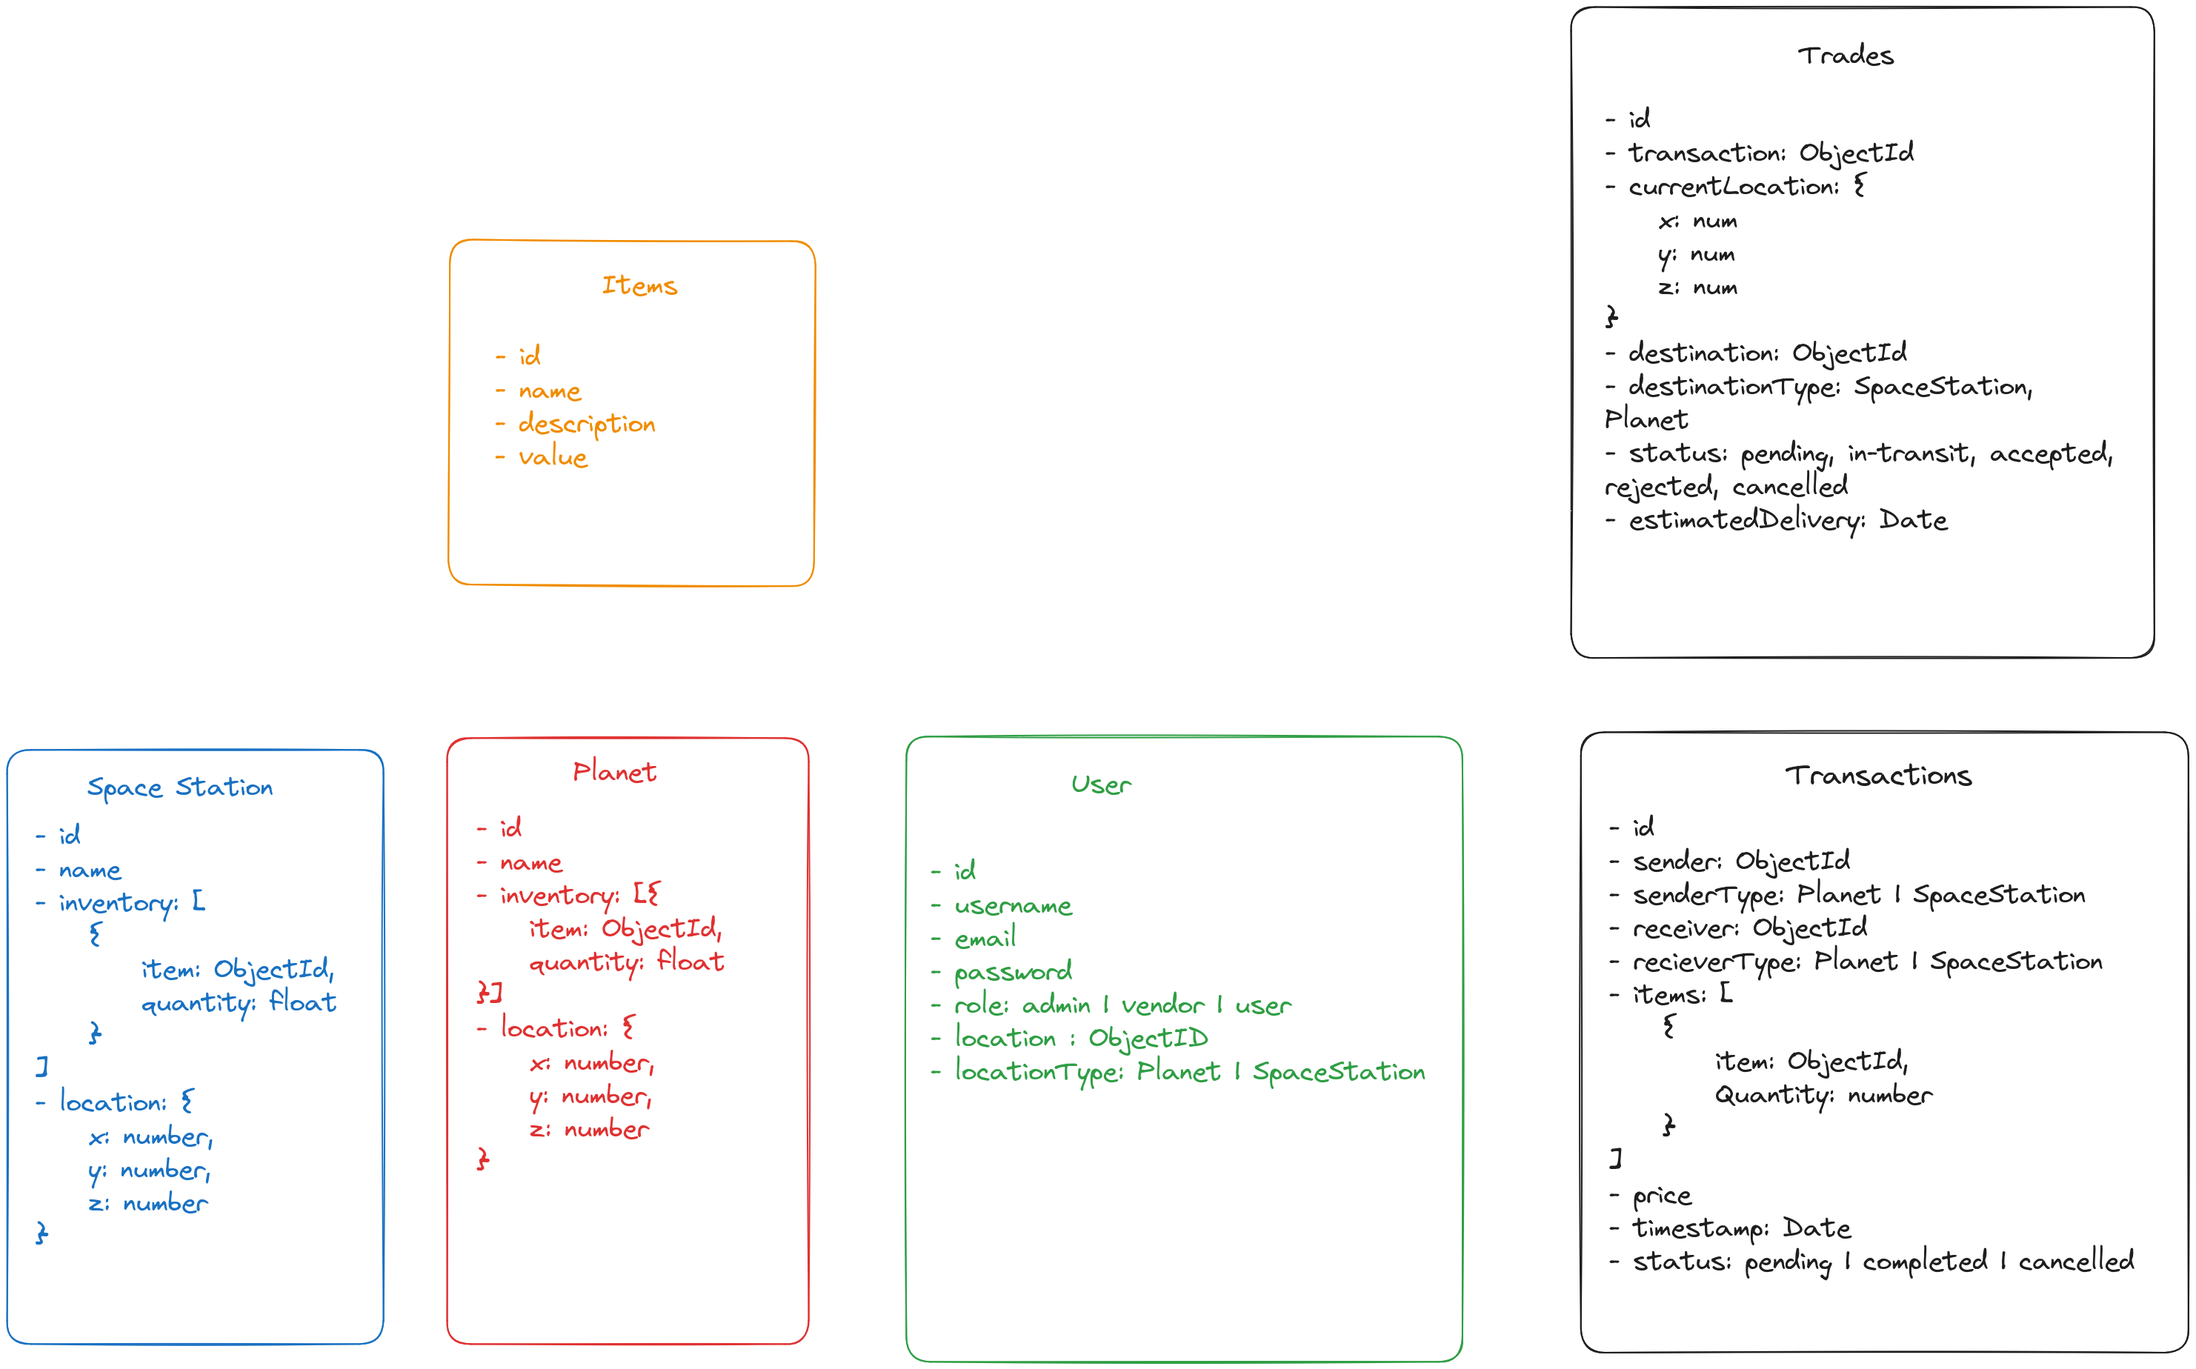
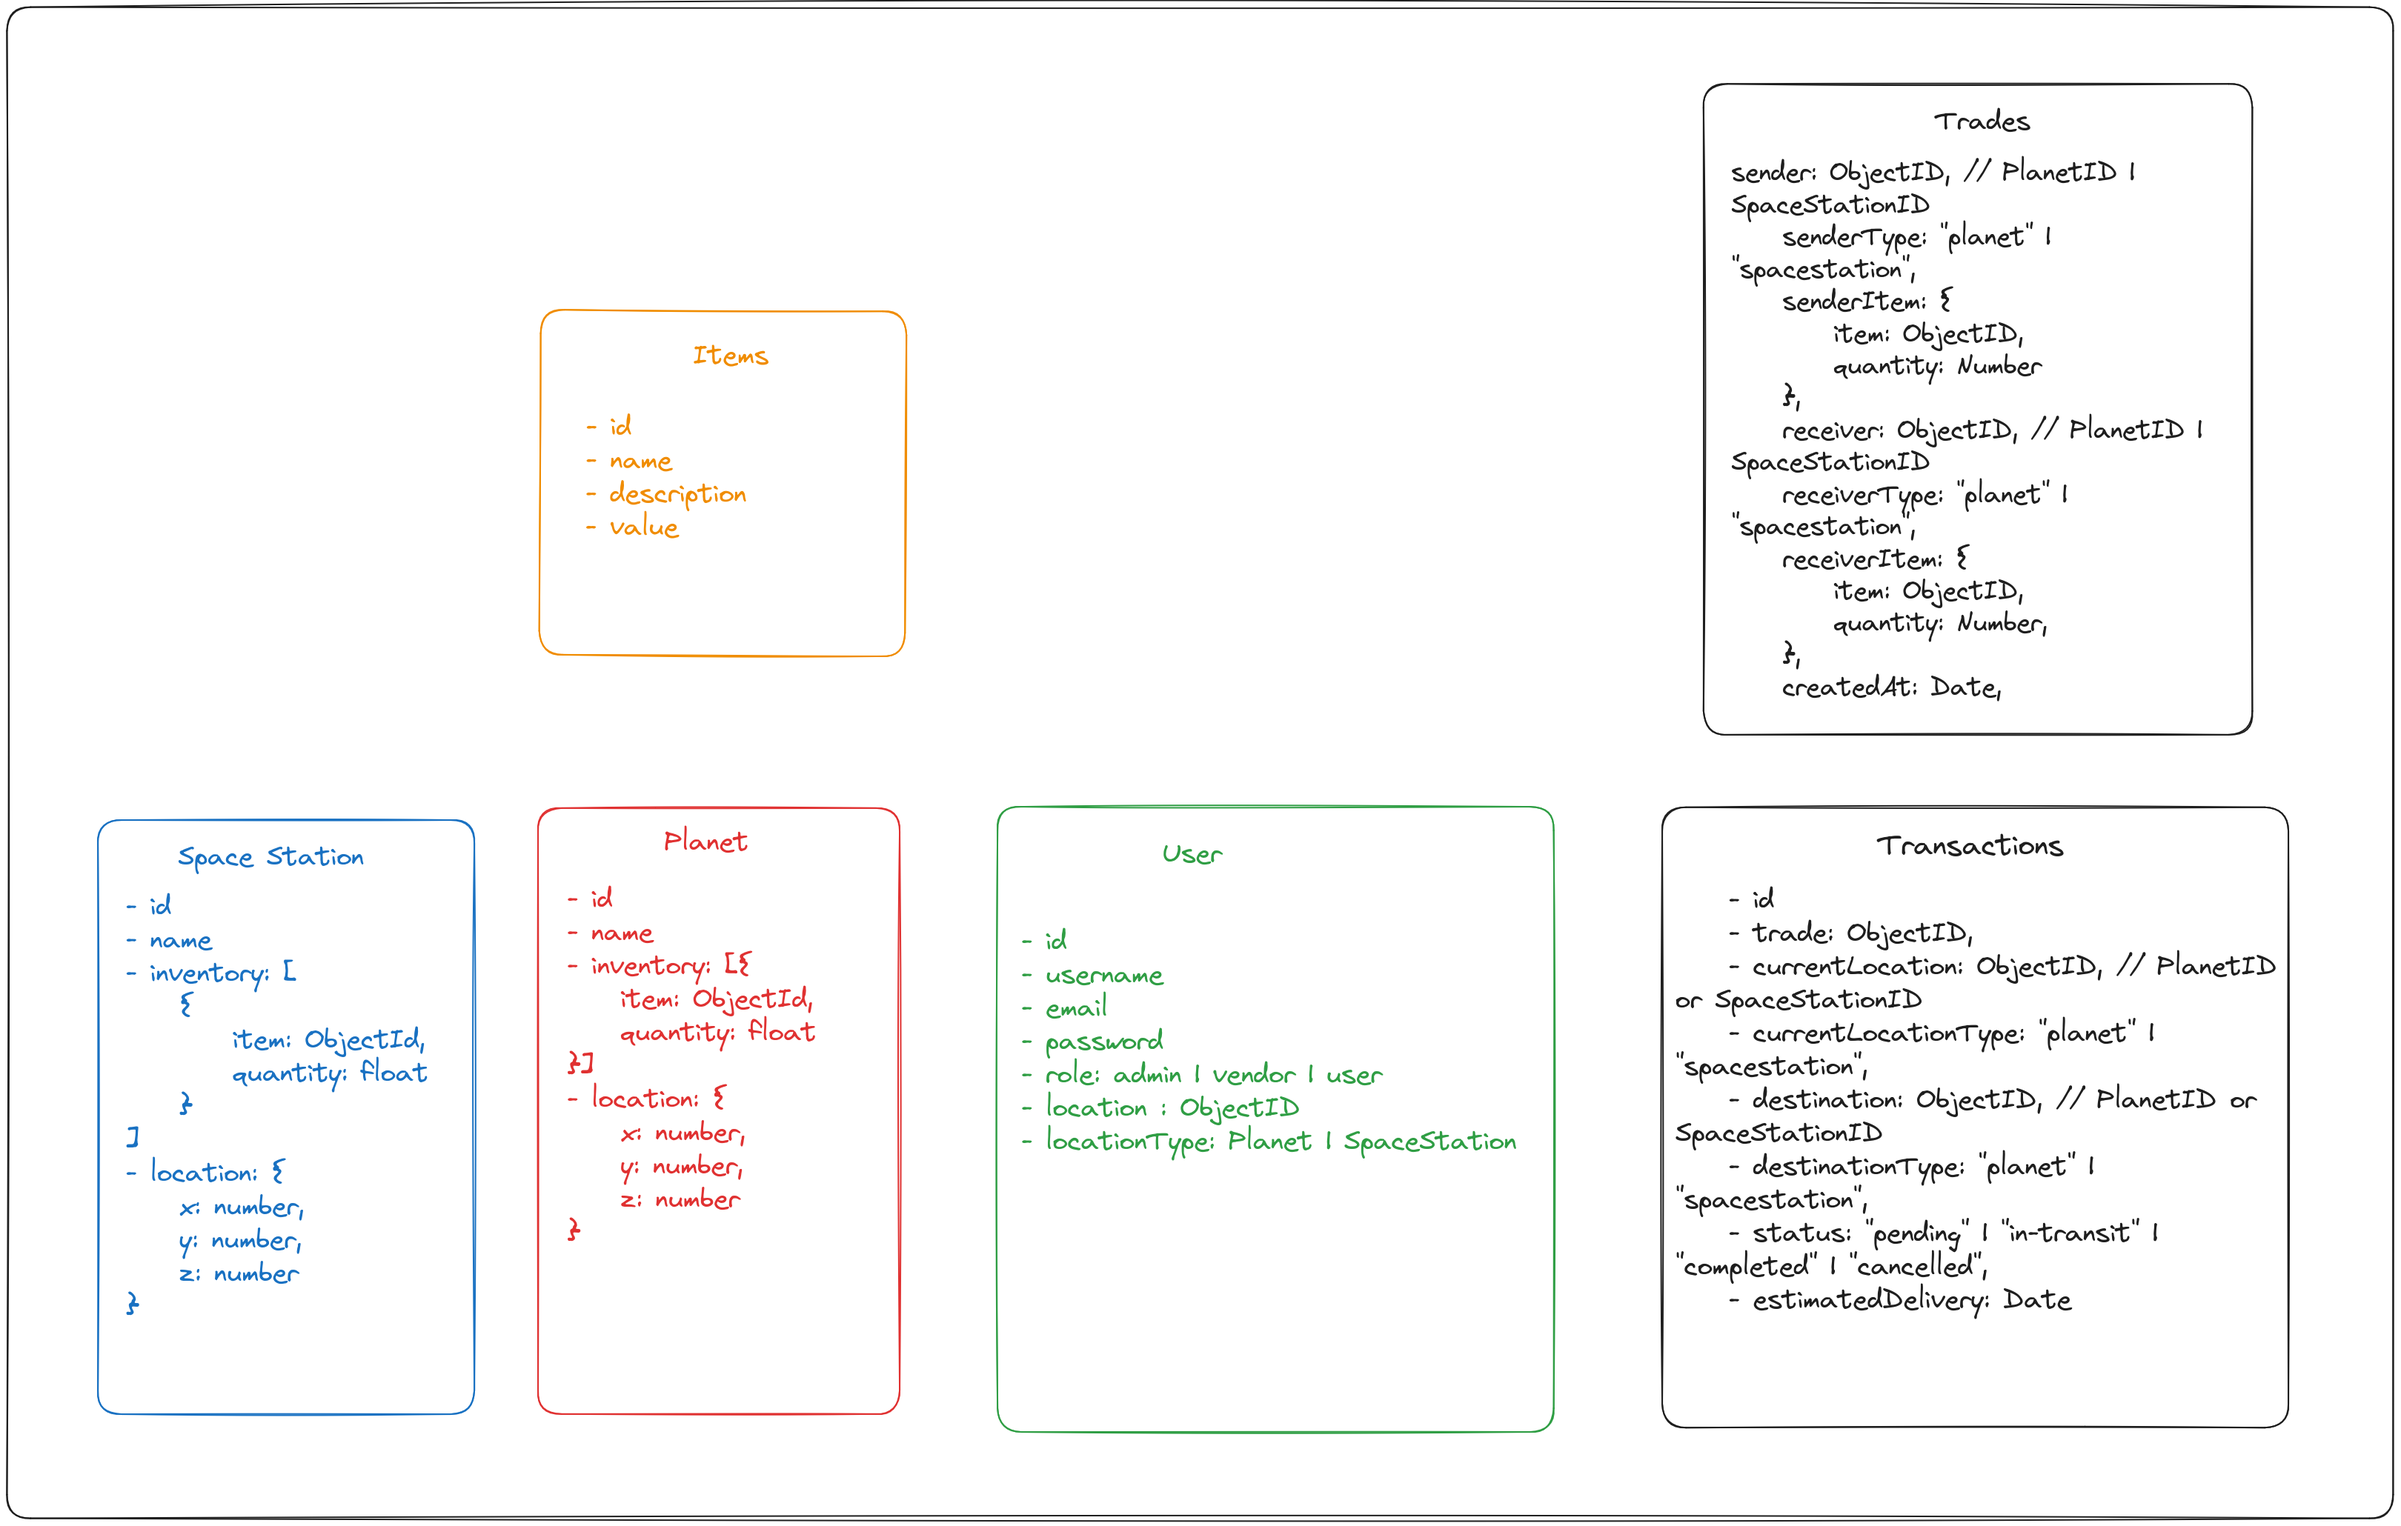
Updated Controllers

diff --git a/src/routes/transactionRoutes.ts b/src/routes/transactionRoutes.ts
@@ -3,6 +3,7 @@ import {
   createTransaction,
   trackTransactionsById,
   getAllTransactions,
+  updateTransaction,
 } from '../controllers/transactionController.js';
 
 import { isUserAuthenticated, authorizeRoles } from "../middleware/auth.js";
@@ -15,5 +16,8 @@ transactionRouter.route('/track/all').get(isUserAuthenticated, getAllTransaction
 
 // General CRUD
 transactionRouter.route('/track/:id').get(trackTransactionsById);
+
+// Vendor CRUD
+transactionRouter.route('/update/:id').put(isUserAuthenticated, authorizeRoles('admin', 'vendor'), updateTransaction);
 
 export default transactionRouter;

diff --git a/README.md b/README.md
@@ -48,6 +48,17 @@ The controller is responsible for handling the request from the user and sending
 
 
 
+### Diagrams
+
+## Schema Diagrams
+![Schema Diagrams](https://github.com/muteenk/intergalactic-trade-network/blob/main/assets/proposed_schema.png)
+
+## User Flow Diagrams
+
+
+
+
+
 ### Database Schema
 
 #### User Schema
@@ -1188,6 +1199,62 @@ Possible Response:
 Possible Response Codes:
 - 200: Trade transaction retrieved successfully
 - 404: Trade transaction not found
+- 500: Internal Server Error
+
+
+
+#### Update Transactions (Vendor & Admin only)
+```
+PUT /api/transactions/update/:id
+```
+
+`:id` is the ObjectID of the transaction.
+
+
+If you want to update details of a transaction as a vendor or an admin, you can send a PUT request to the above endpoint with the following payload:
+
+```json
+{ 
+    "currentLocation": ObjectID, 
+    "currentLocationType": "planet" | "spacestation",
+    "status": "in-transit", 
+    "estimatedDelivery": "2024-05-08"
+}
+```
+
+
+In the above snippet:
+- `currentLocation` is the ObjectID of the current location
+- `currentLocationType` is the type of the current location. It can be either `planet` or `spacestation`
+- `status` is the status of the transaction. It can be either `pending`, `in-transit`, `completed`, or `cancelled`
+- `estimatedDelivery` is the estimated delivery date of the transaction
+
+
+Possible Response:
+
+```json
+{
+    "success": true,
+    "transaction": {
+        "_id": "66d4e161103d1f38f2b8dfc1",
+        "trade": "66d4e161103d1f38f2b8dfbf",
+        "currentLocation": "66d36653b3ecad5ed0c583e5",
+        "currentLocationType": "planet",
+        "destination": "66d3742e088a2b8e1ddcc052",
+        "destinationType": "spacestation",
+        "status": "in-transit",
+        "estimatedDelivery": "2024-05-08T18:30:00.000Z",
+        "__v": 0
+    }
+}
+```
+
+
+Possible Response Codes:
+- 200: Transaction updated successfully
+- 400: Bad request
+- 401: Unauthorized
+- 404: Transaction not found
 - 500: Internal Server Error
 
 
